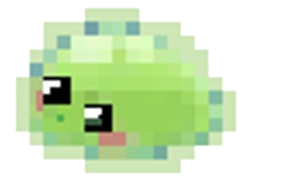
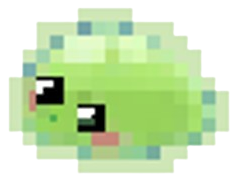
adding a slime character

diff --git a/js/tut.js b/js/tut.js
@@ -17,13 +17,22 @@ $(document).ready(function() {
 
         // Change sprite image based on direction
         if (dx > 0) { // Moving right
-            $('#player').css('background-image', 'url("./images/right.png")');
+            $('.player').css('background-image', 'url("./images/right.png")');
+            setTimeout(function() {
+                $('.player').css('background-image', 'url("./images/front.png")');
+            }, 150); // 5000 milliseconds = 5 seconds
         } else if (dx < 0) { // Moving left
-            $('#player').css('background-image', 'url("./images/left.png")');
+            $('.player').css('background-image', 'url("./images/left.png")');
+            setTimeout(function() {
+                $('.player').css('background-image', 'url("./images/front.png")');
+            }, 150);
         } else if (dy > 0) { // Moving down
-            $('#player').css('background-image', 'url("./images/down.png")');
+            $('.player').css('background-image', 'url("./images/back.png")');
+            setTimeout(function() {
+                $('.player').css('background-image', 'url("./images/front.png")');
+            }, 150);
         } else if (dy < 0) { // Moving up
-            $('#player').css('background-image', 'url("./images/up.png")');
+            $('.player').css('background-image', 'url("./images/front.png")');
         }
 
         // Verify new position is inside of the maze walls

diff --git a/js/easy.js b/js/easy.js
@@ -24,6 +24,26 @@ $(document).ready(function() {
         var newX = playerX + dx;
         var newY = playerY + dy;
 
+        // Change sprite image based on direction
+        if (dx > 0) { // Moving right
+            $('.player').css('background-image', 'url("./images/right.png")');
+            setTimeout(function() {
+                $('.player').css('background-image', 'url("./images/front.png")');
+            }, 150); // 5000 milliseconds = 5 seconds
+        } else if (dx < 0) { // Moving left
+            $('.player').css('background-image', 'url("./images/left.png")');
+            setTimeout(function() {
+                $('.player').css('background-image', 'url("./images/front.png")');
+            }, 150);
+        } else if (dy > 0) { // Moving down
+            $('.player').css('background-image', 'url("./images/back.png")');
+            setTimeout(function() {
+                $('.player').css('background-image', 'url("./images/front.png")');
+            }, 150);
+        } else if (dy < 0) { // Moving up
+            $('.player').css('background-image', 'url("./images/front.png")');
+        }
+
         // Verify new position is inside of the maze walls
         if (newX >= 0 && newX < mazeWidth && newY >= 0 && newY < mazeHeight) {
             // Check to see if the new position is a wall or not

diff --git a/js/hard.js b/js/hard.js
@@ -30,6 +30,26 @@ $(document).ready(function() {
         var newX = playerX + dx;
         var newY = playerY + dy;
 
+        // Change sprite image based on direction
+        if (dx > 0) { // Moving right
+            $('.player').css('background-image', 'url("./images/right.png")');
+            setTimeout(function() {
+                $('.player').css('background-image', 'url("./images/front.png")');
+            }, 150); // 5000 milliseconds = 5 seconds
+        } else if (dx < 0) { // Moving left
+            $('.player').css('background-image', 'url("./images/left.png")');
+            setTimeout(function() {
+                $('.player').css('background-image', 'url("./images/front.png")');
+            }, 150);
+        } else if (dy > 0) { // Moving down
+            $('.player').css('background-image', 'url("./images/back.png")');
+            setTimeout(function() {
+                $('.player').css('background-image', 'url("./images/front.png")');
+            }, 150);
+        } else if (dy < 0) { // Moving up
+            $('.player').css('background-image', 'url("./images/front.png")');
+        }
+
         // Verify new position is inside of the maze walls
         if (newX >= 0 && newX < mazeWidth && newY >= 0 && newY < mazeHeight) {
             // Check to see if the new position is a wall or not

diff --git a/js/medium.js b/js/medium.js
@@ -30,6 +30,26 @@ $(document).ready(function() {
         var newX = playerX + dx;
         var newY = playerY + dy;
 
+        // Change sprite image based on direction
+        if (dx > 0) { // Moving right
+            $('.player').css('background-image', 'url("./images/right.png")');
+            setTimeout(function() {
+                $('.player').css('background-image', 'url("./images/front.png")');
+            }, 150); // 5000 milliseconds = 5 seconds
+        } else if (dx < 0) { // Moving left
+            $('.player').css('background-image', 'url("./images/left.png")');
+            setTimeout(function() {
+                $('.player').css('background-image', 'url("./images/front.png")');
+            }, 150);
+        } else if (dy > 0) { // Moving down
+            $('.player').css('background-image', 'url("./images/back.png")');
+            setTimeout(function() {
+                $('.player').css('background-image', 'url("./images/front.png")');
+            }, 150);
+        } else if (dy < 0) { // Moving up
+            $('.player').css('background-image', 'url("./images/front.png")');
+        }
+
         // Verify new position is inside of the maze walls
         if (newX >= 0 && newX < mazeWidth && newY >= 0 && newY < mazeHeight) {
             // Check to see if the new position is a wall or not

diff --git a/css/easy.css b/css/easy.css
@@ -29,8 +29,10 @@ body {
 .player {
   width: 40px;
   height: 40px;
-  background-color: blue;
+  background-image: url("../images/front.png");
   position: absolute;
+  background-size: cover;
+  background-position: center;
 }
 
 .square {

diff --git a/scss/easy.scss b/scss/easy.scss
@@ -33,7 +33,7 @@ body{
 .player {
     width: 40px;
     height: 40px;
-    background-color: blue;
+    background-image: url('../images/front.png');
     position: absolute;
 }
 
